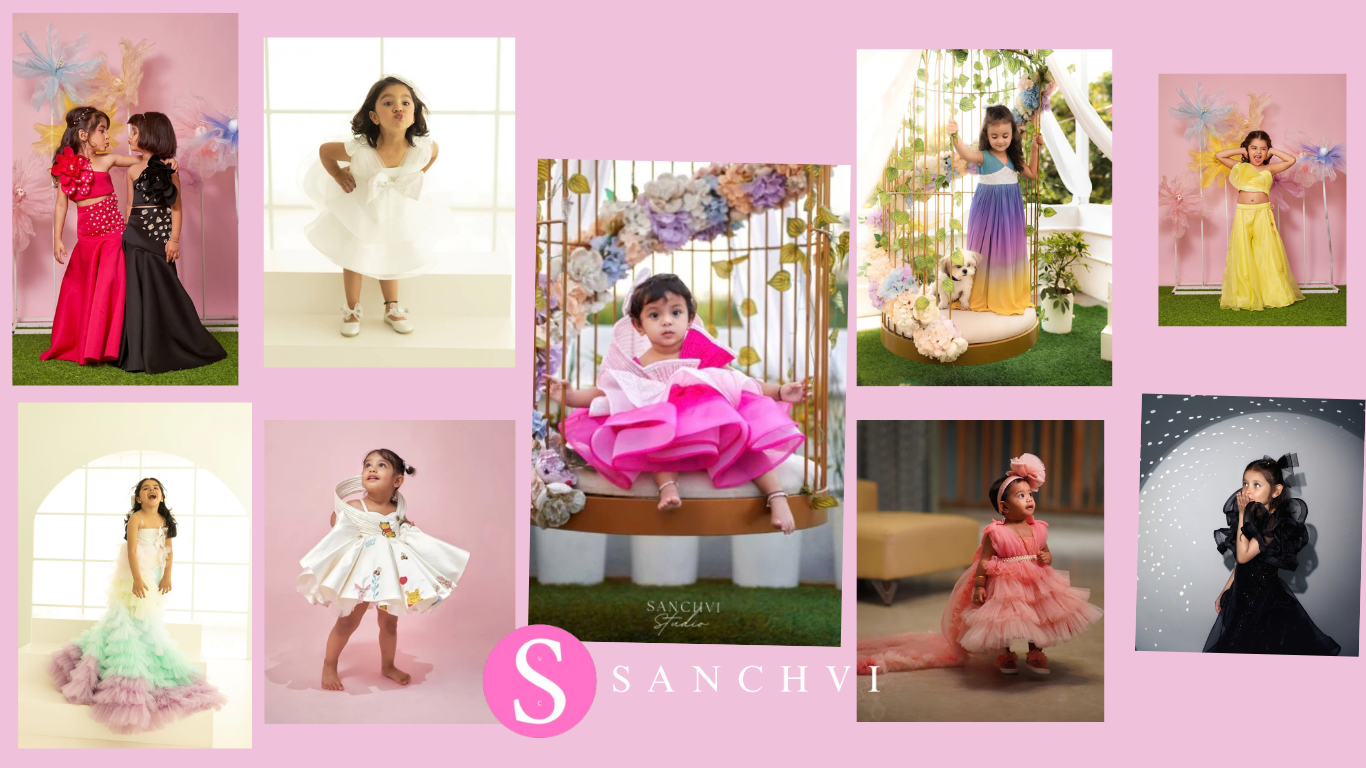
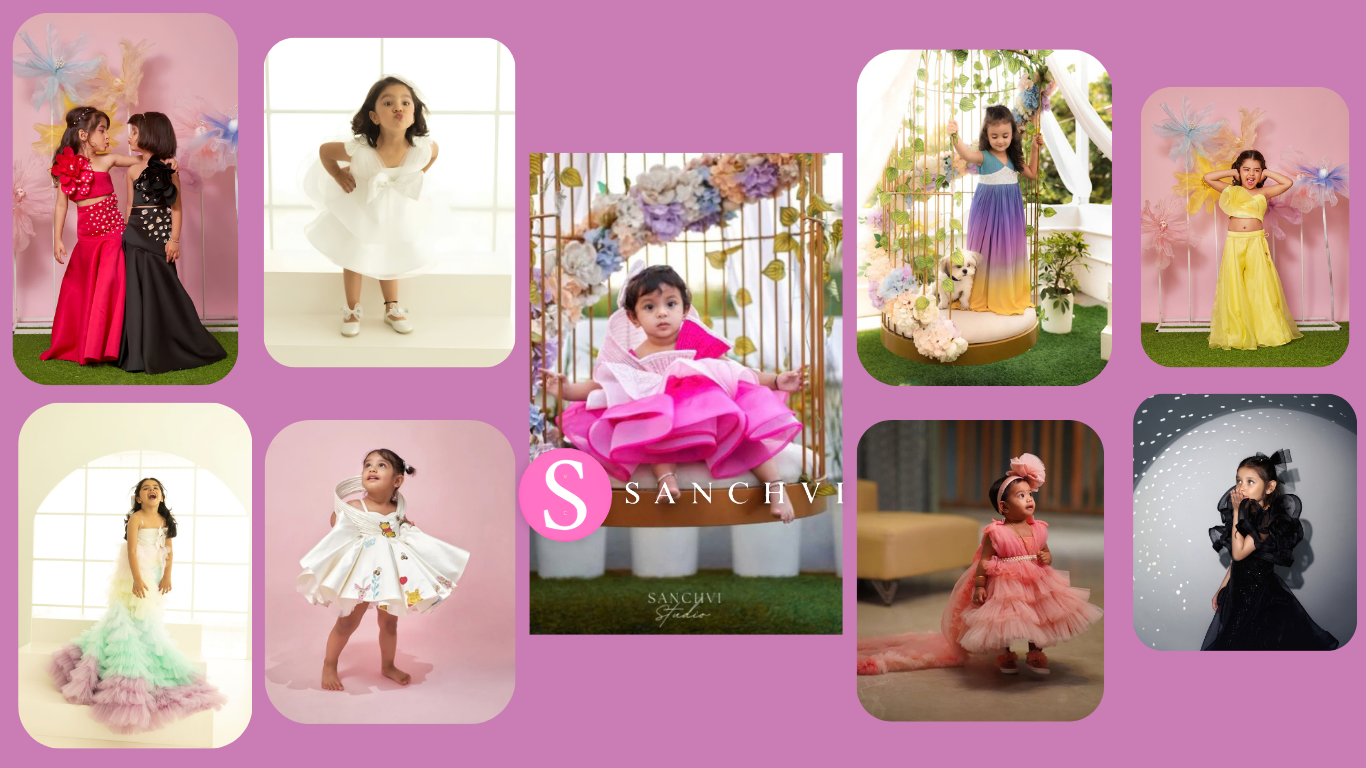
new update

diff --git a/index.html b/index.html
@@ -139,7 +139,7 @@
       <div class="project-showcase">
         <article class="project-card project-featured reveal" data-status="major" data-category="ecommerce">
           <a class="project-image-wrap" href="projects/sanchvi.html" aria-label="Open Sanchvi project details">
-            <img class="project-image" src="https://raw.githubusercontent.com/yasirkhan251/Sanchvi/main/static/images/banner.webp" onerror="this.onerror=null;this.src='Images/Sanchvi/titled.svg';" alt="Sanchvi e-commerce project preview">
+            <img class="project-image" src="Images/Sanchvi/Title.png" onerror="this.onerror=null;this.src='Images/Sanchvi/Title.png';" alt="Sanchvi e-commerce project preview">
             <span class="image-tag">E-COMMERCE</span><span class="image-link">View details ↗</span>
           </a>
           <div class="project-info">
